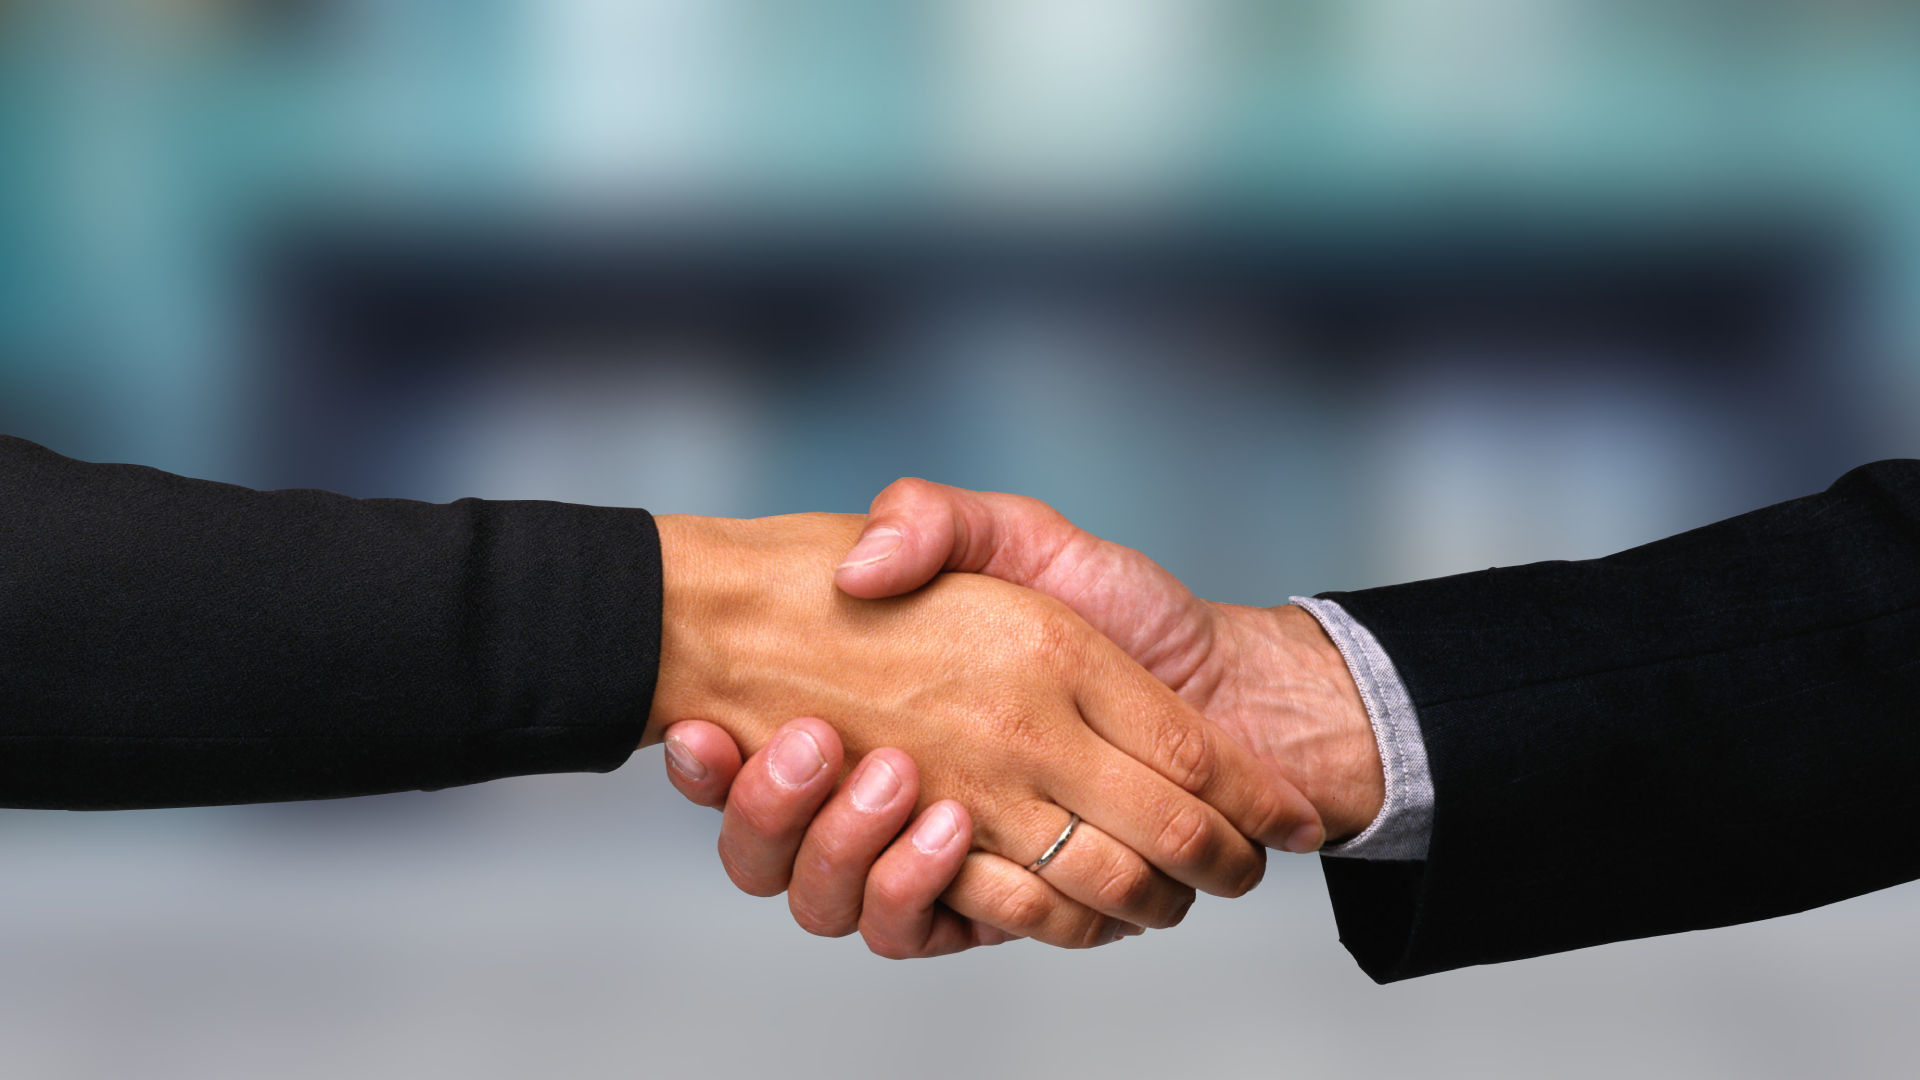
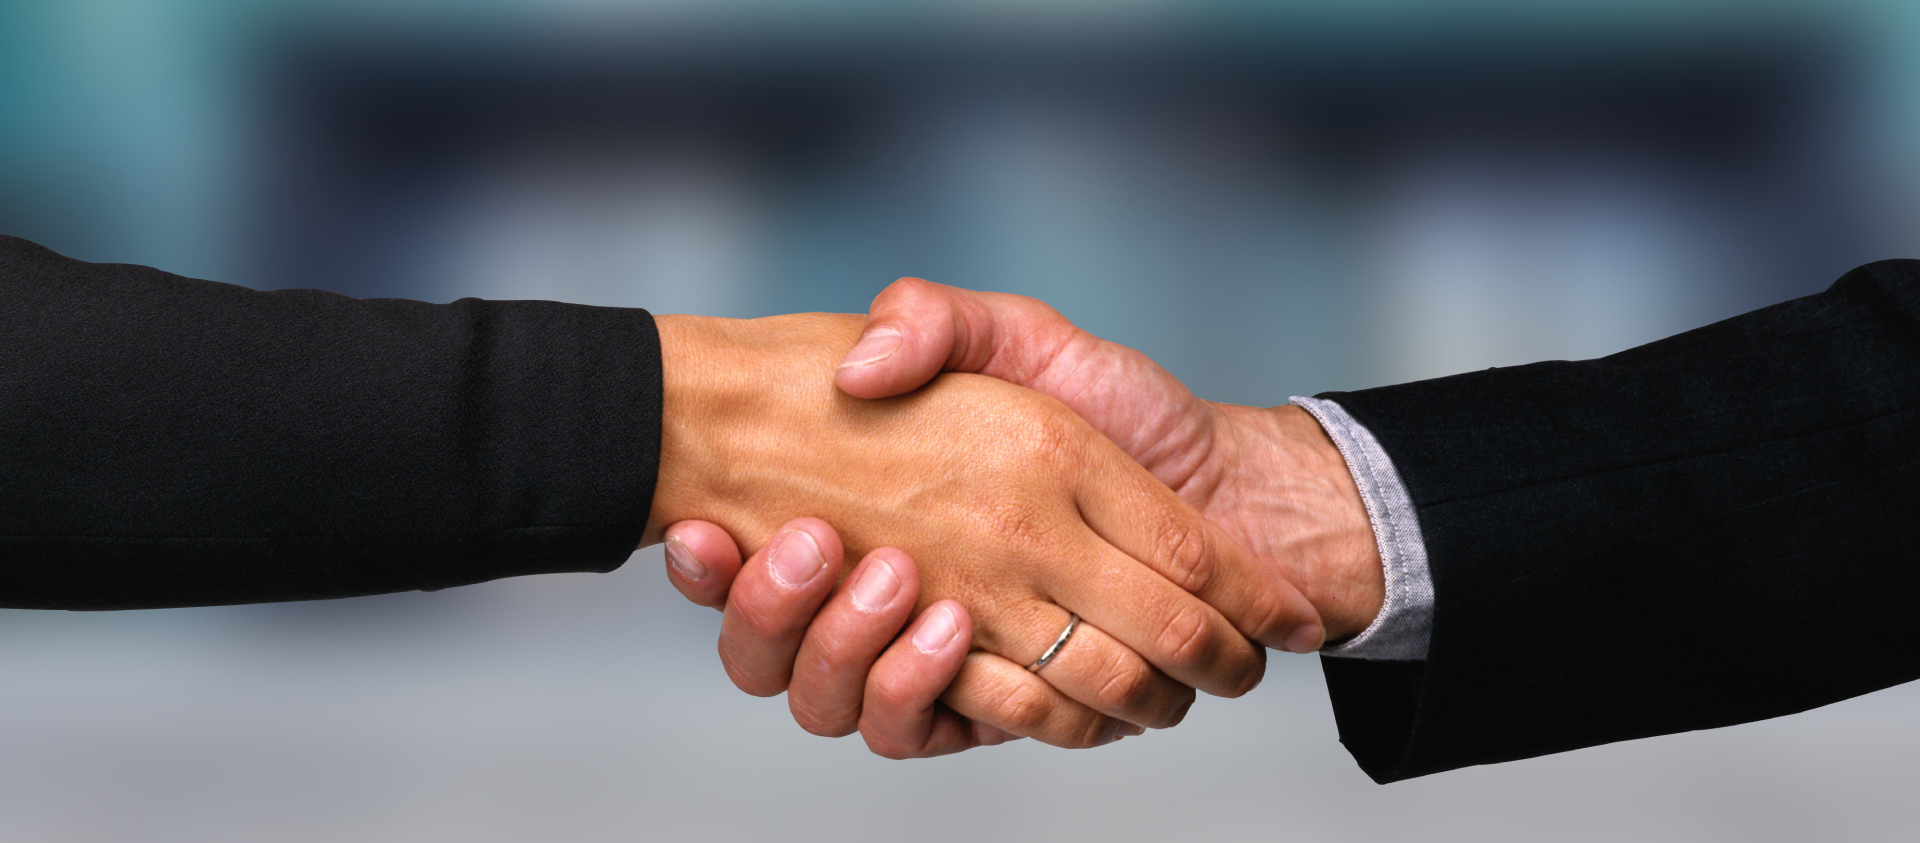
push

diff --git a/styles.css b/styles.css
@@ -107,6 +107,12 @@ header {
     justify-content: center;
     background-color: #F4F7FA;
     overflow: hidden;
+    object-fit: cover;
+}
+.file-container img{
+
+    top: -60px; 
+
 }
 
 /* Upload button positioned in the upper right of the display */
@@ -150,6 +156,8 @@ header {
     justify-content: center;
     overflow: hidden;
     border-radius: 4px;
+   
+
 }
 
 #fileDisplay img {
@@ -171,4 +179,28 @@ header {
         font-size: 20px;
         padding: 40px 10px;
     }
+}
+.Section_1{
+
+  
+    background-color: EEF5FE;
+    color: black;
+    text-align: left;
+    line-height: 100px;
+    border-radius: 10px;
+    font-size: 18px;
+    font-weight: bold;
+    
+
+    width: 100%;
+    height: 100%;
+    display: flex;
+  
+   padding-left: 1%;
+    overflow: hidden;
+    border-radius: 4px;
+
+
+   
+
 }

diff --git a/Home.html b/Home.html
@@ -43,6 +43,12 @@
             <main class="container my-5">
                 <section class="text-center">
                     <!-- Content Goes Here -->
+                     <div class = "Section_1">
+                        <div class="Contents">
+
+                            <p>TThis is a test</p>
+                            </div>
+                     </div>
 
 
 
